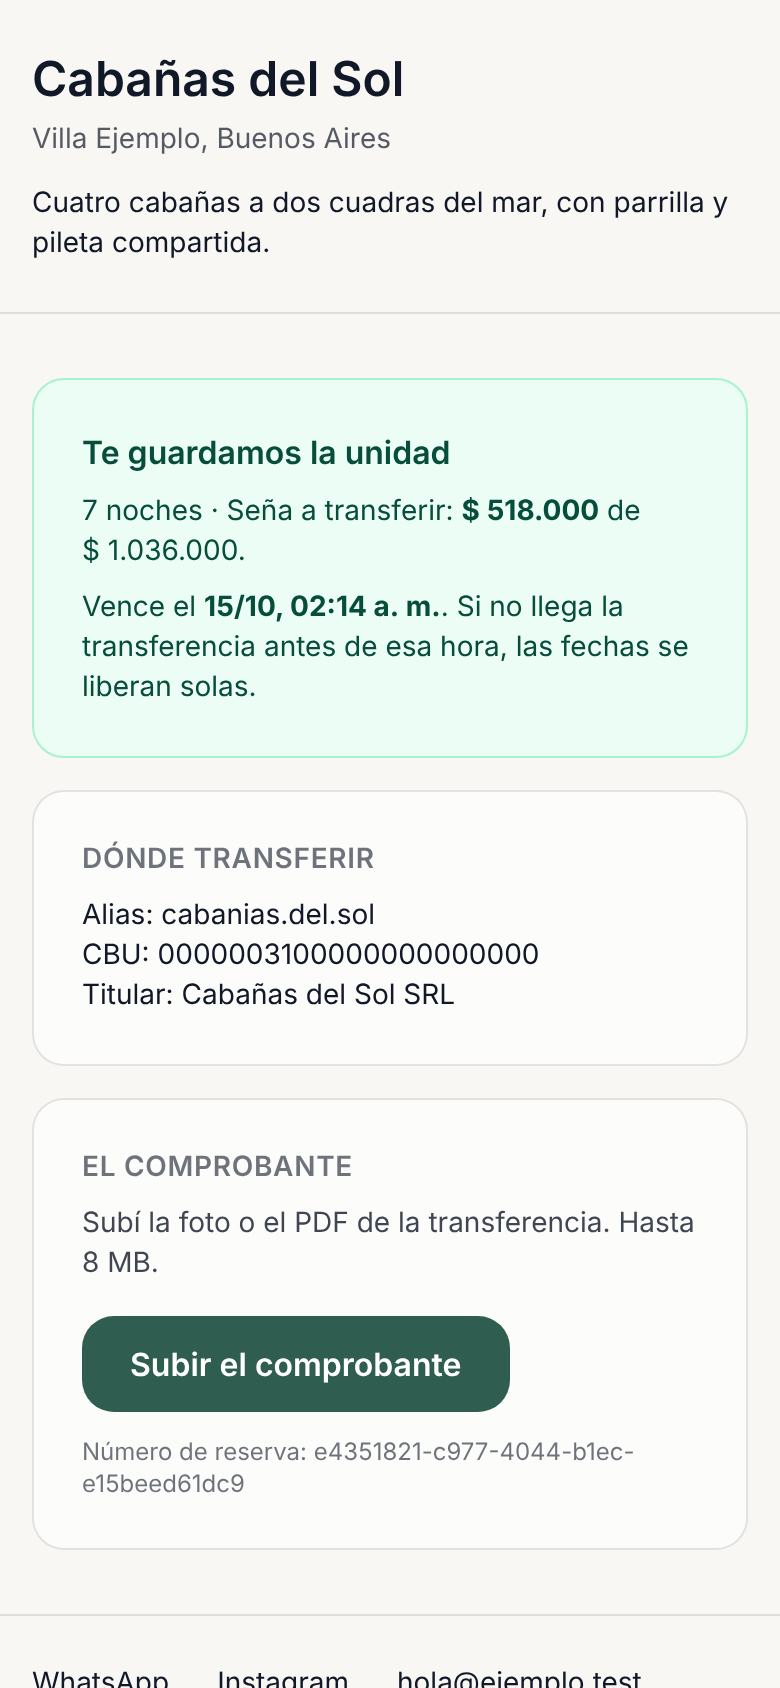
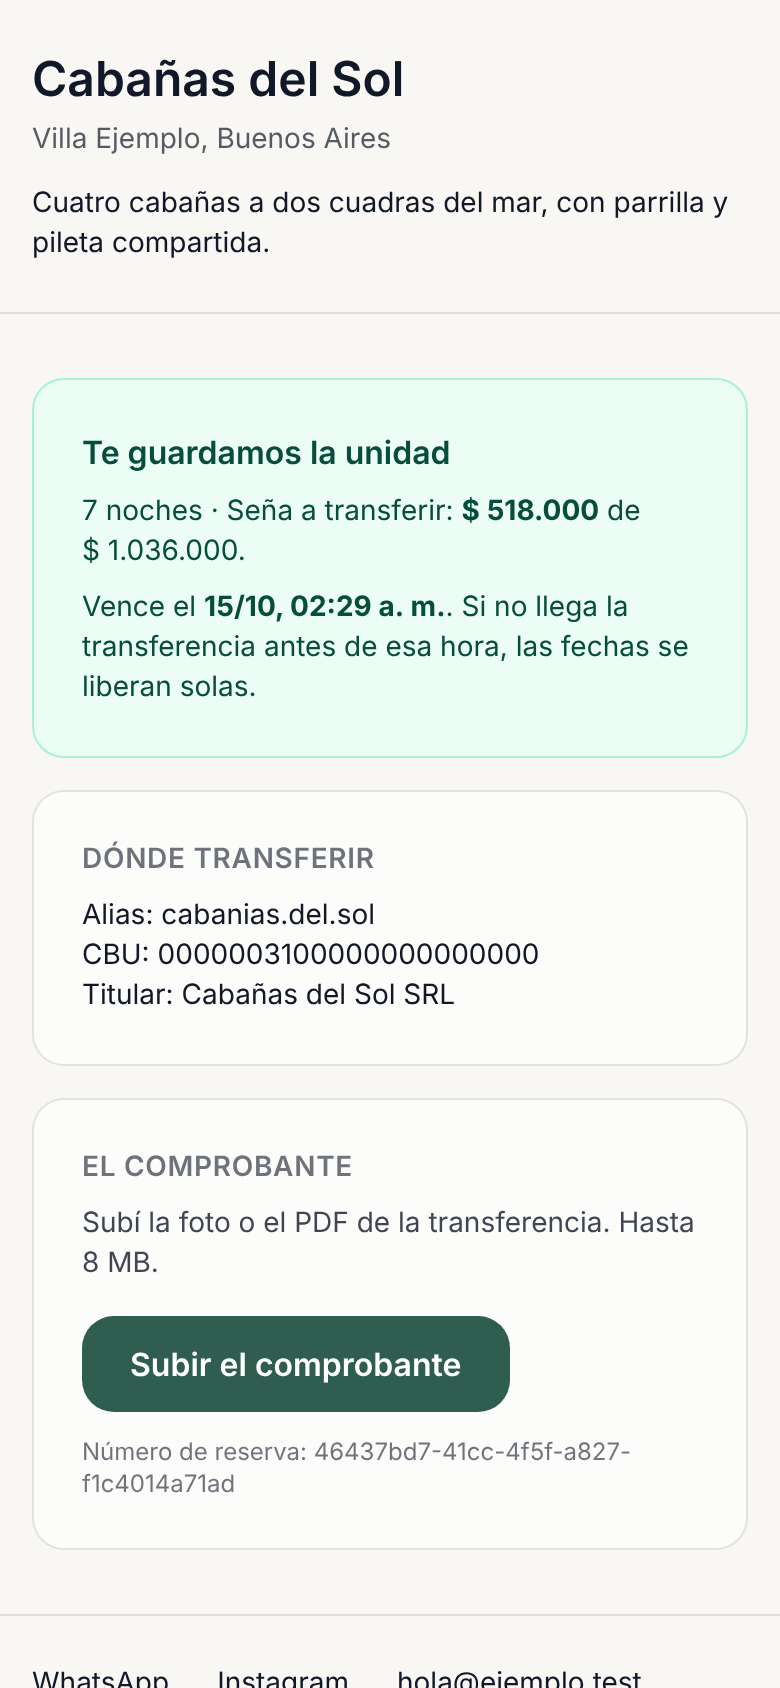
La tipografía deja de ser la de ellos: Archivo
Geist es la tipografía de Vercel y es la que usa la página que servía de molde.
Copiar la forma de una página que vende bien es una cosa; usar su misma letra es
otra, y el pedido fue explícito.

Archivo, de Omnibus-Type, hace el mismo trabajo mejor: pesos hasta 900 y
**cursiva de verdad** —no una inclinación sintética como la que estaba usando—,
que es lo que hace a los titulares de esta página. Y es de una fundidora
argentina, que para un producto argentino es una decisión que se puede contar en
vez de una coincidencia.

`next/font/google` no le pide nada a Google en tiempo de ejecución: baja los
archivos al compilar y los sirve desde nuestro dominio, igual que antes.

Y el comentario del layout decía que la usaban «la comercial, el login y el
panel». No era cierto: la aplica sólo la comercial. Corregido, porque un
comentario que describe una intención en presente es una mentira chica que
alguien va a creer.

Los colores no se tocaron: la paleta oscura ya salía del verde profundo y el
terracota de AlojaOS, no del azul y el verde de ellos.

Capturas sacadas de nuevo —la huella de la interfaz cambió al tocar el layout— y
comprobadas: `prueba:comercial` 15/15, `navegador` 32/32, `panel` 53/53.

Claude-Session: https://claude.ai/code/session_01PeX3A5kHMPng74jQYSqc5q

diff --git a/src/app/layout.tsx b/src/app/layout.tsx
@@ -1,5 +1,5 @@
 import type { Metadata } from 'next';
-import { GeistSans } from 'geist/font/sans';
+import { Archivo } from 'next/font/google';
 import './globals.css';
 
 export const metadata: Metadata = {
@@ -8,25 +8,47 @@ export const metadata: Metadata = {
 };
 
 /**
- * La tipografía del producto se carga acá, y no se le aplica a nadie.
+ * La tipografía del producto: Archivo, de Omnibus-Type.
  *
- * `GeistSans.variable` deja definida `--font-geist-sans` y, lo que importa, el
- * `@font-face` con el archivo servido **desde nuestro dominio**. La páginas de
- * AlojaOS —la comercial, el login, el panel— se la ponen apuntando sus propias
- * `--fuente-titulo` y `--fuente-cuerpo` a esa variable.
+ * Es una grotesca con pesos hasta 900 y con cursiva **de verdad** —no una
+ * inclinación sintética—, que es lo que hacen falta para los titulares de la
+ * página comercial. Y es de una fundidora argentina, que para un producto
+ * argentino es una decisión que se puede contar.
+ *
+ * `next/font/google` **no** pide nada a Google en tiempo de ejecución: baja los
+ * archivos al compilar y los sirve desde nuestro dominio. Eso importa por lo
+ * mismo que la lista de tipografías del panel no tiene ninguna web: pedirle la
+ * fuente a un tercero le cuenta a ese tercero quién visitó la página.
+ *
+ * `display: 'swap'` es a propósito: mientras la fuente baja, el texto se ve con
+ * la del sistema. La alternativa —que no se vea nada hasta que llegue— es una
+ * página en blanco por un recurso que es decoración.
+ */
+const archivo = Archivo({
+  subsets: ['latin'],
+  weight: ['400', '500', '600', '700', '800', '900'],
+  style: ['normal', 'italic'],
+  variable: '--font-aloja',
+  display: 'swap',
+});
+
+/**
+ * Cómo se aplica.
+ *
+ * `archivo.variable` deja definida `--font-aloja` y el `@font-face` con los
+ * archivos servidos desde nuestro dominio. Acá no se la aplica a nadie: la usa
+ * quien apunte sus `--fuente-titulo` y `--fuente-cuerpo` a esa variable, y hoy
+ * eso lo hace **sólo la página comercial**. El panel y el login siguen con la
+ * del sistema; cuando se decida pasarlos, es una línea en cada uno.
  *
  * Lo que NO pasa es que se la coma la página de un complejo: ahí esas dos
  * variables las escribe su fila de `complejos`, y una tipografía nuestra pisando
  * la que el dueño eligió sería justamente lo que la pantalla de marca existe
  * para evitar.
- *
- * Y se sirve local, no desde Google Fonts, por el mismo motivo por el que la
- * lista de tipografías del panel no tiene ninguna web: pedirle la fuente a un
- * tercero le cuenta a ese tercero quién visitó la página.
  */
 export default function RootLayout({ children }: { children: React.ReactNode }) {
   return (
-    <html lang="es-AR" className={GeistSans.variable}>
+    <html lang="es-AR" className={archivo.variable}>
       <body className="min-h-screen antialiased">{children}</body>
     </html>
   );

diff --git a/src/components/comercial/Comercial.tsx b/src/components/comercial/Comercial.tsx
@@ -90,8 +90,8 @@ export function Comercial() {
         {
           background: NOCHE.fondo,
           color: NOCHE.texto,
-          '--fuente-titulo': 'var(--font-geist-sans)',
-          '--fuente-cuerpo': 'var(--font-geist-sans)',
+          '--fuente-titulo': 'var(--font-aloja)',
+          '--fuente-cuerpo': 'var(--font-aloja)',
         } as React.CSSProperties
       }
     >
